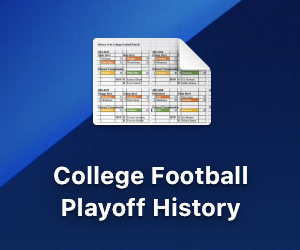
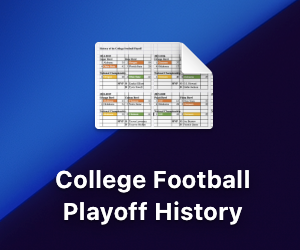
minor change

diff --git a/sports.html b/sports.html
@@ -145,7 +145,7 @@
 
             button3.addEventListener('click', () => {
                 img1.src = 'assets/images/Sports-WCHist4.1.png';
-                img2.src = 'assets/images/Sports-CFPHist5.1.2.png';
+                img2.src = 'assets/images/Sports-CFPHist5.1.png';
                 img3.src = 'assets/images/Sports-NCAAHist02.5.png';
                 img4.src = 'assets/images/Sports-CFBBowls2.13.1.png';
                 img5.src = 'assets/images/Sports-NFLHist2.15.1.png';
